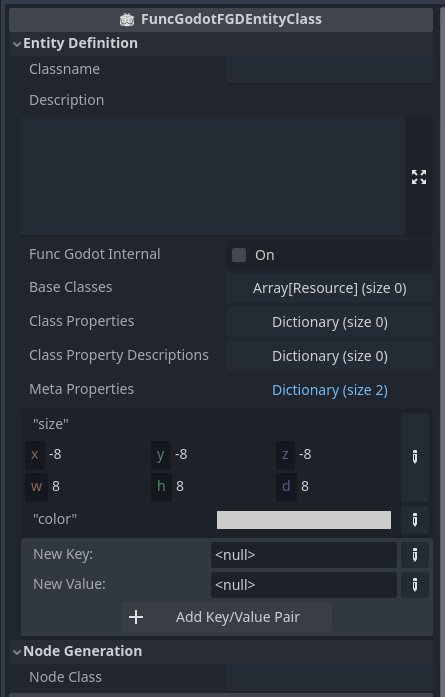
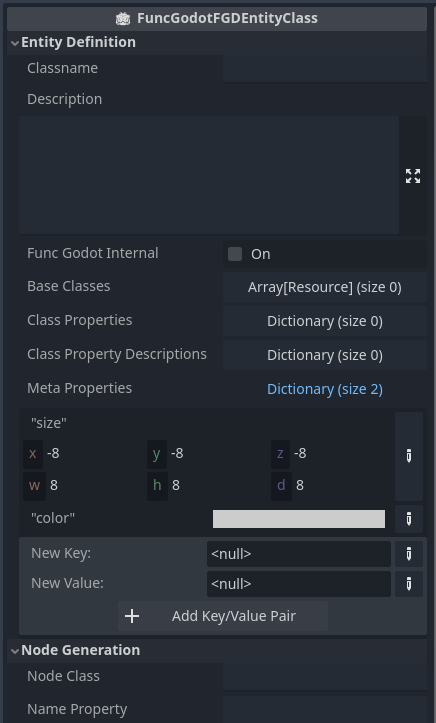
Guide update

diff --git a/FuncGodot Manual/pages/guide_install.html b/FuncGodot Manual/pages/guide_install.html
@@ -21,8 +21,30 @@
         <p>
             This manual assumes you have an intermediate level of knowledge with Godot and your chosen map editor. 
         </p>
+        <br>
 
-        <h3>Downloading the Plugin</h3>
+        <h3 id="MapEdCompat">Map Editor Compatibility</h3>
+
+        <p>
+            FuncGodot directly supports the following editors with configuration resources:
+            <ul>
+                <li>TrenchBroom 2024</li>
+                <li>NetRadiant Custom 1.6</li>
+            </ul>
+        </p>
+        <p>
+            FGD outputs have also been tested with these editors:
+            <ul>
+                <li>J.A.C.K.</li>
+            </ul>
+        </p>
+        <p>
+            FuncGodot is designed to be as map editor agnostic as possible. If you use an editor that can output Quake or Half-Life 1 format map files, 
+            please let us know on GitHub or Discord so we can try our best to either support it directly or document the configuration process!
+        </p>
+        <br>
+
+        <h3 id="Download">Downloading the Plugin</h3>
 
         <p>
             There are 3 places to download FuncGodot. The first two places are both found on the <a href="https://github.com/func-godot/func_godot_plugin" target="_blank"><b>FuncGodot GitHub Repository</b></a>. 

diff --git a/FuncGodot Manual/pages/guide_map_editor_config.html b/FuncGodot Manual/pages/guide_map_editor_config.html
@@ -121,11 +121,15 @@
             Select it and then select <b>Okay</b>. NetRadiant Custom will need to restart.
         </p>
         <p align="center"><img src="../images/guide_me_nrc_1.png" alt="NetRadiant Custom setup 1"></p>
-        <p>
+        <p align="center">
             You'll be prompted to find your game's engine path. Use your Godot project's root folder.
         </p>
         <p align="center"><img src="../images/guide_me_nrc_2.png" alt="NetRadiant Custom setup 2"></p>
-        <p>
+        <p align="center">
+            Lastly, you'll want to go to <b><i>Edit > Preferences > Settings > Brush</i></b>, then change <b>New map Brush Type</b> to <b>Valve 220</b>.
+        </p>
+        <p align="center"><img src="../images/guide_me_nrc_4.png" alt="NetRadiant Custom setup 2"></p>
+        <p align="center">
             Now you should be ready to start mapping for Godot with NetRadiant Custom!
         </p>
         <p align="center"><img src="../images/guide_me_nrc_3.png" alt="NetRadiant Custom setup 3"></p>

diff --git a/FuncGodot Manual/pages/sidenav.html b/FuncGodot Manual/pages/sidenav.html
@@ -10,8 +10,12 @@
         <p class="sidenav"><a href="start.html" target="main">What <i>IS</i> FuncGodot?</a></p>
         <!--<p class="sidenav2"><a href="start.html#Credits" target="main">Who <i>MADE</i> FuncGodot?</a></p>-->
         <h3 class="sidenav">Getting Started</h3>
+        <p class="sidenav"><a href="guide_install.html" target="main">Installing FuncGodot</a></p>
+        <p class="sidenav2">
+            <a href="guide_install.html#MapEdCompat" target="main">Map Editor Compatibility</a><br>
+            <a href="guide_install.html#Download" target="main">Downloading the Plugin</a>
+        </p>
         <p class="sidenav">
-            <a href="guide_install.html" target="main">Installing FuncGodot</a><br>
             <a href="guide_project_config.html" target="main">Project Configuration</a><br>
             <a href="guide_fgd.html" target="main">Forge Game Data</a>
         </p>

diff --git a/FuncGodot Manual/pages/ref_fgd_resources.html b/FuncGodot Manual/pages/ref_fgd_resources.html
@@ -137,6 +137,15 @@
                     There is no restriction on what Node Classes can be generated.
                 </td>
             </tr>
+            <tr>
+                <td>Name Property</td>
+                <td>String</td>
+                <td>
+                    Optional. Specifies a class property belonging to this entity that will be used to name the generated node upon map build. The node is renamed to 
+                    <code>"entity" + name_property</code> prior to being added to the <i>SceneTree</i> and applying <code>func_godot_properties</code>.<br><br>
+                    <i>NOTE: Node names should be unique, otherwise you may run into unexpected behavior!</i>
+                </td>
+            </tr>
         </table>
         
         <br><hr>
